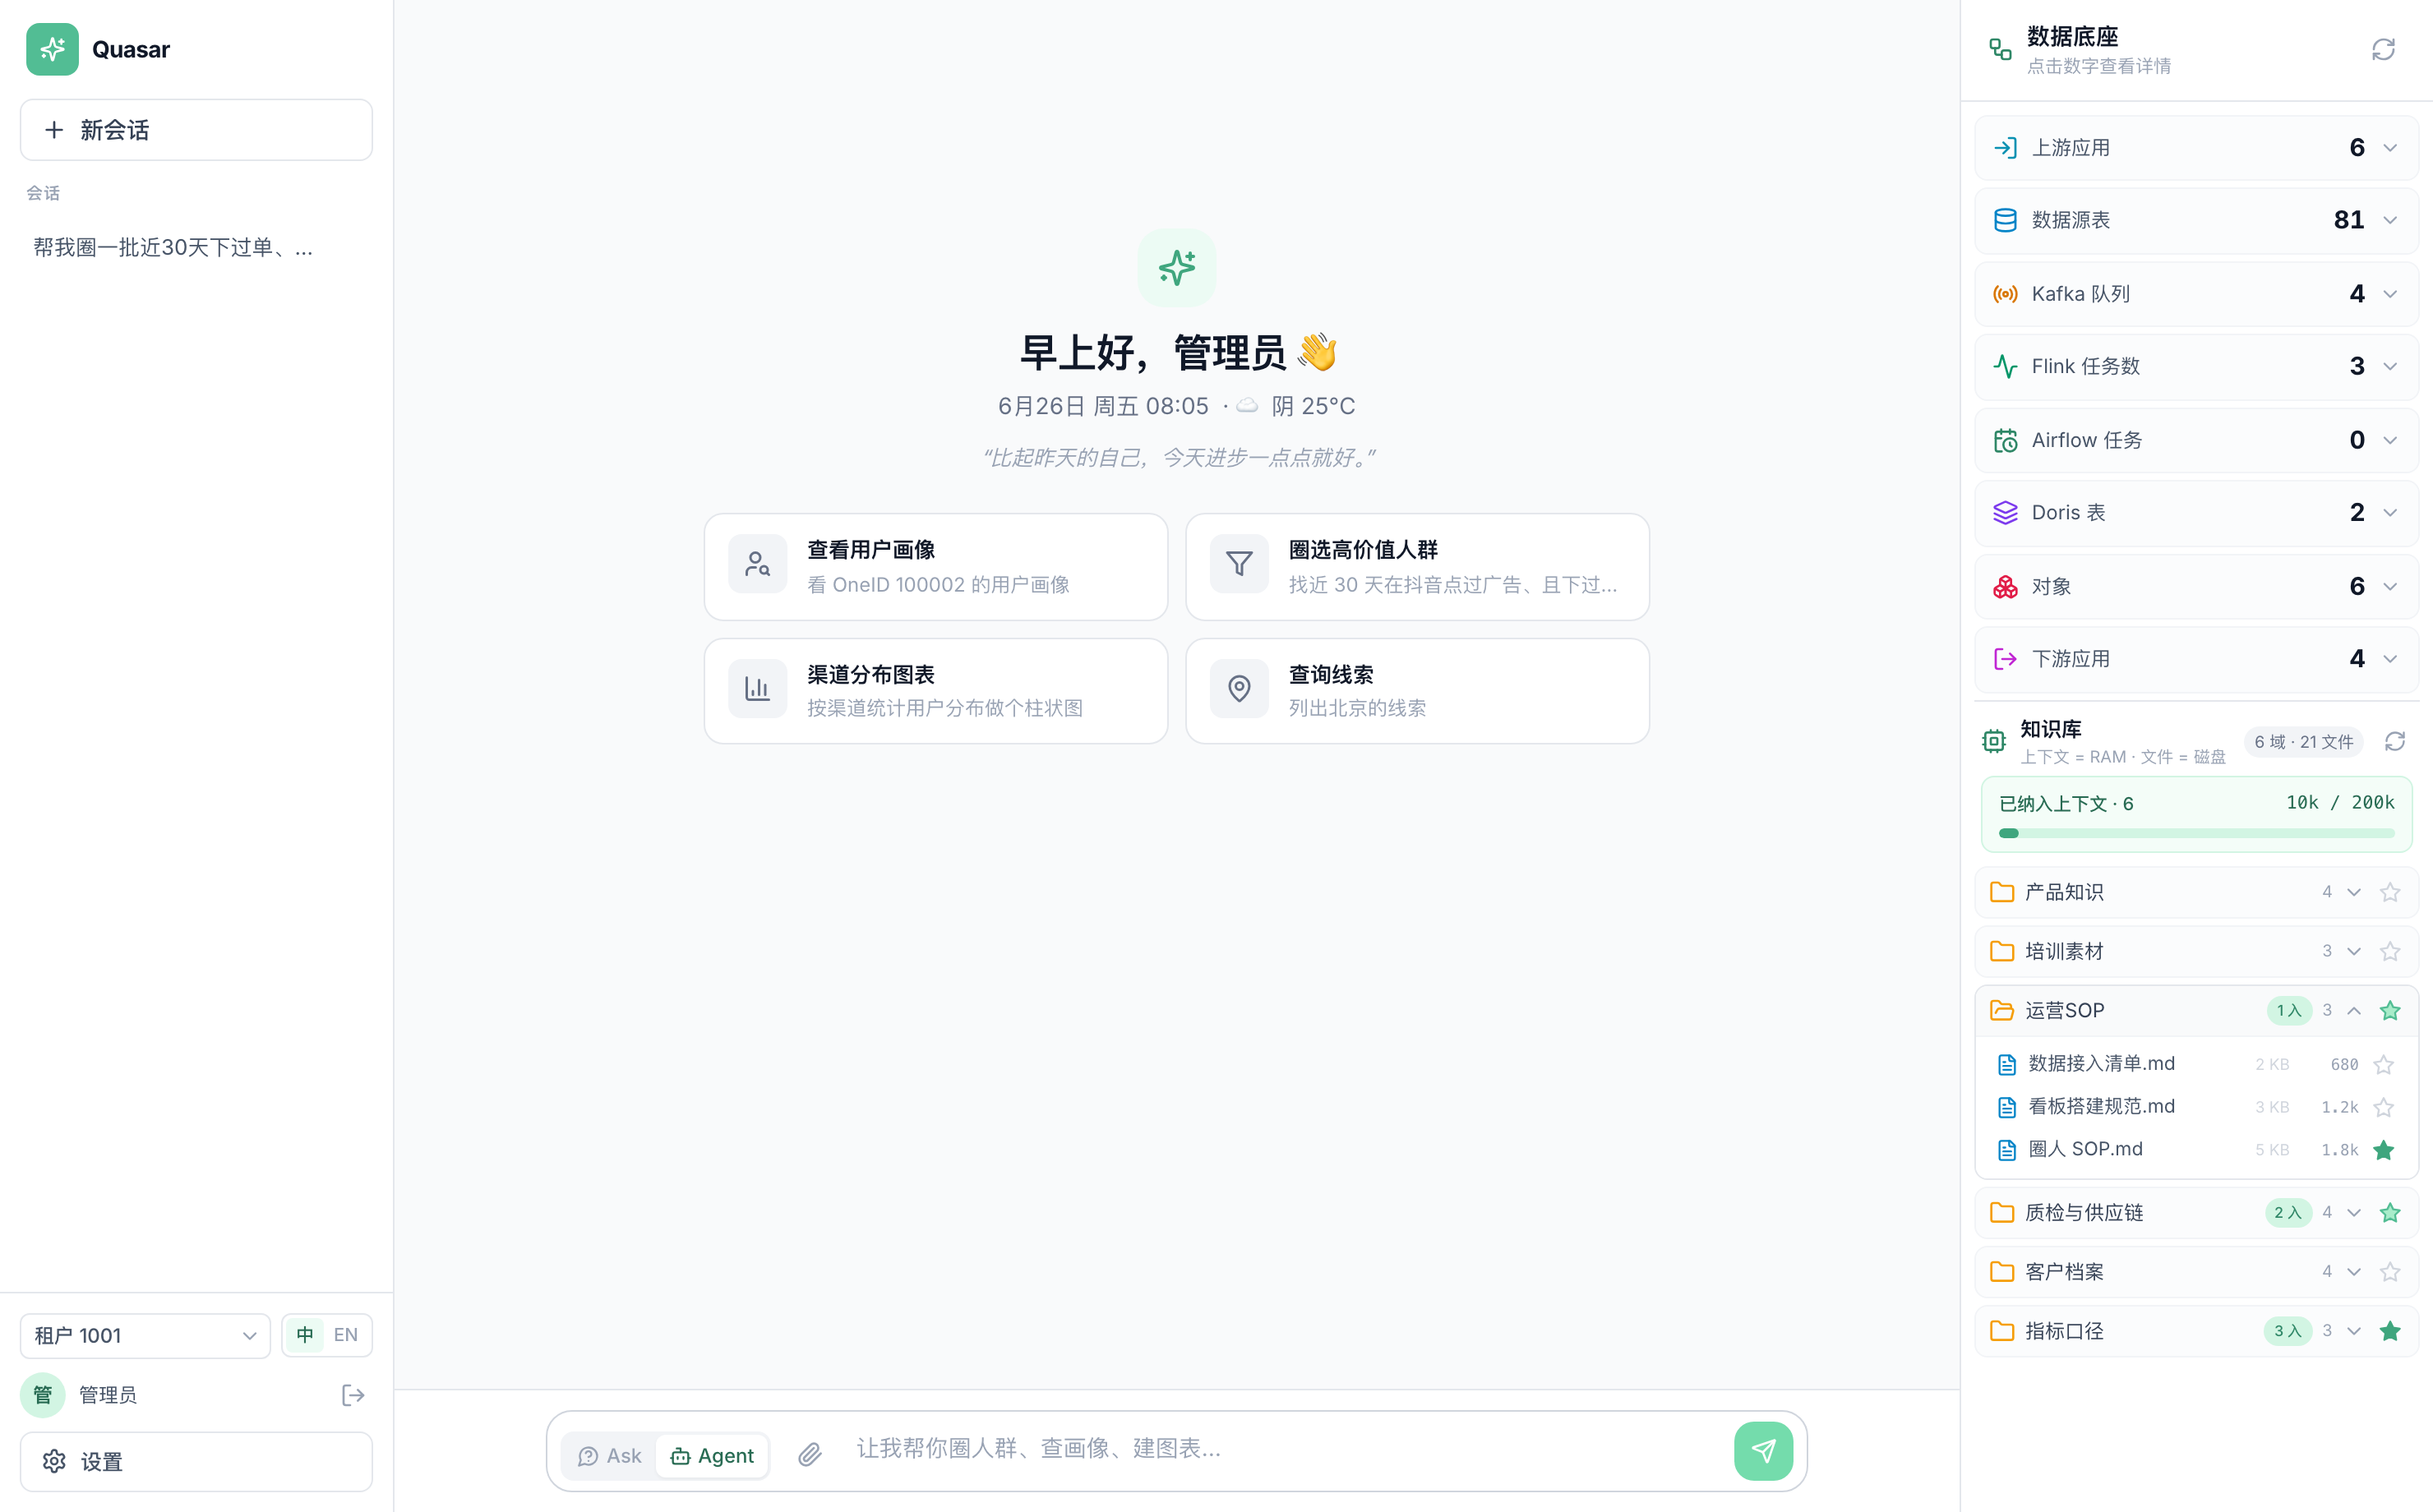
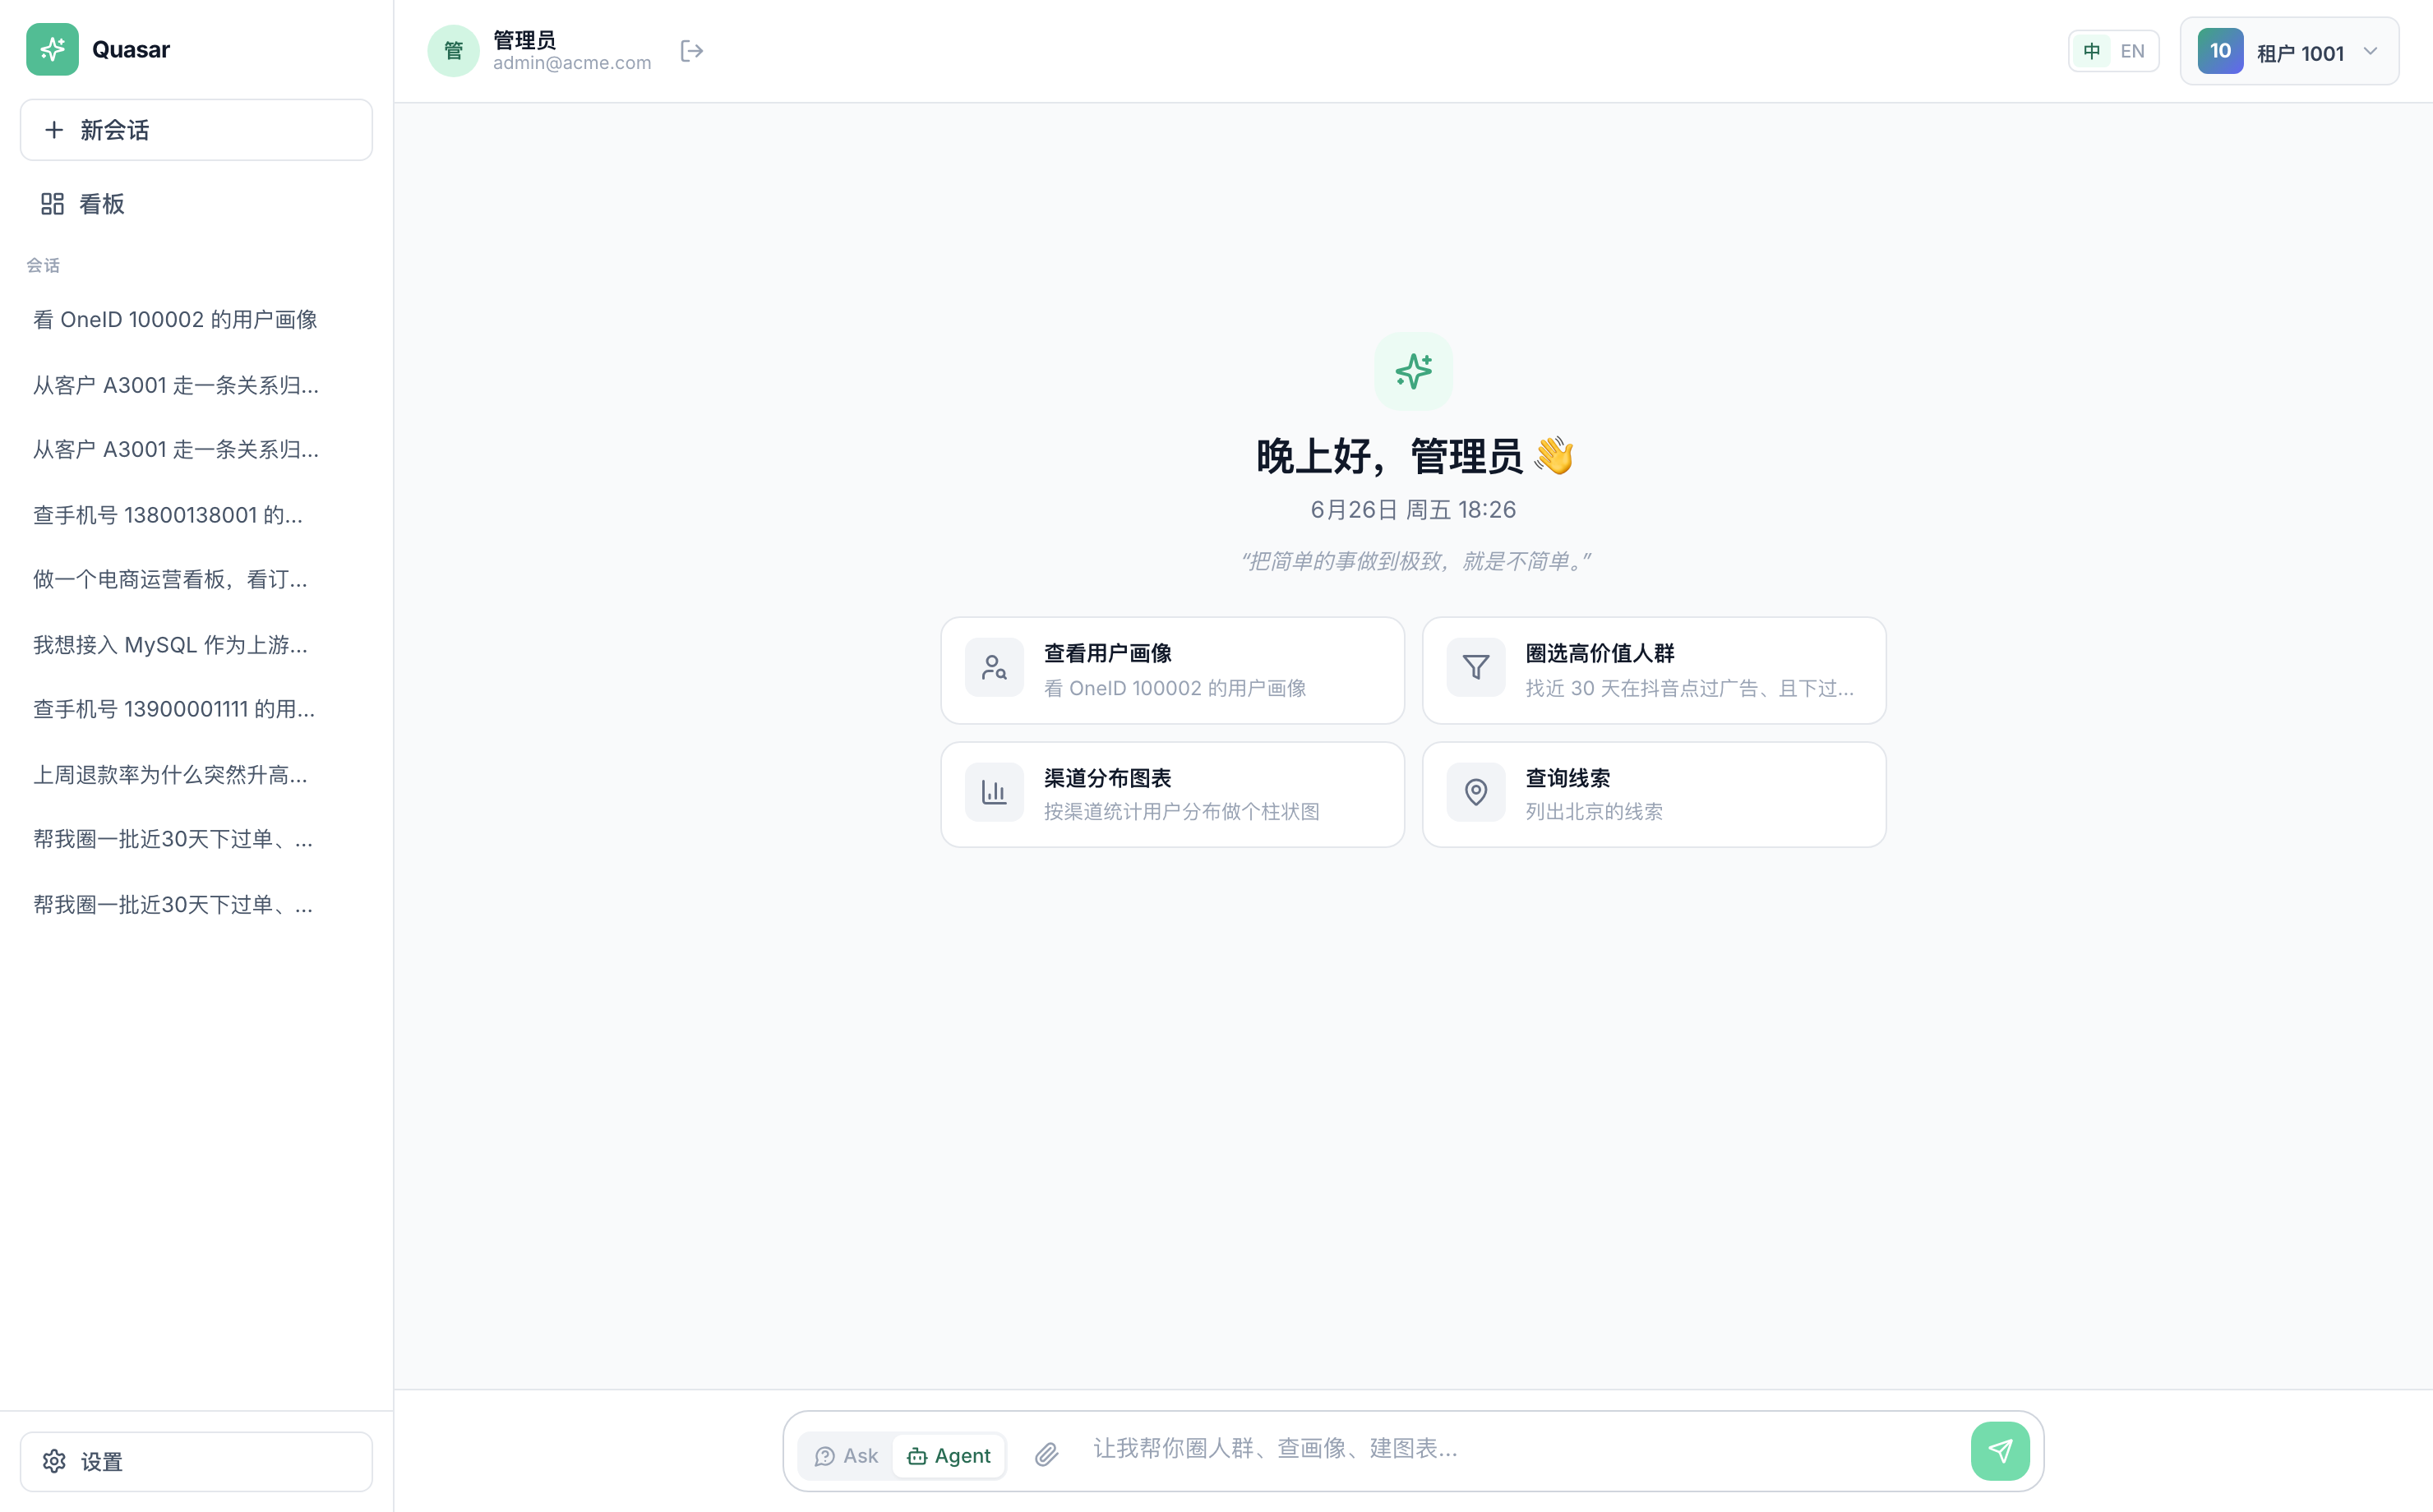
docs(site): 更新新版布局截图（TailAdmin 顶栏 + 设置数据架构分层）
- 02-console 换为新布局；overview/architecture 嵌入 settings-arch（数据源/应用/实时链路/队列/任务/知识库）
- 替换过时的右栏数据底座图

diff --git a/docs/site/overview.html b/docs/site/overview.html
@@ -60,7 +60,7 @@
         <div class="card"><h5><span class="ico">⚡</span>快捷入口</h5><p>创建受众 / 接入数据源，一键直达高频操作。</p></div>
       </div>
       <figure class="fig"><img src="assets/shots/02-console.png" alt="总览看板 · 控制台主界面" loading="lazy"><figcaption>控制台主界面：欢迎语 + 快捷卡 + 右侧数据底座 / 知识库</figcaption></figure>
-      <figure class="fig"><img src="assets/shots/03-data-foundation.png" alt="数据底座概览" loading="lazy"><figcaption>右侧「数据底座」：上游应用 / 数据源表 / Kafka / Flink / Airflow / Doris / 对象 / 下游应用，点数字下钻</figcaption></figure>
+      <figure class="fig"><img src="assets/shots/settings-arch.png" alt="设置 · 数据架构分层" loading="lazy"><figcaption>「设置」里按数据架构分层：数据源(数据库) · 应用(上下游) · 实时链路(Flink) · 队列(Kafka) · 任务(Airflow) · 知识库</figcaption></figure>
       <p>路由：<code>/</code></p>
     </section>
 

diff --git a/docs/site/architecture.html b/docs/site/architecture.html
@@ -97,6 +97,7 @@
         <tr><td>Airflow</td><td><code>8088</code></td><td>「可视化编排」真实调度后端（admin/admin），经 REST API 触发 DAG</td></tr>
         <tr><td>智能助手 assistant</td><td><code>8004</code></td><td>多智能体：路由 → 数据查询/分析/任务/通用</td></tr>
       </table>
+      <figure class="fig"><img src="assets/shots/settings-arch.png" alt="控制台 · 数据架构分层" loading="lazy"><figcaption>控制台「设置」按数据链路分层呈现：数据源(业务库/数仓) · 应用(上下游) · 实时链路(Flink) · 队列(Kafka) · 任务(Airflow) · 知识库</figcaption></figure>
       <div class="callout"><b>标注约定</b> · <span class="b real">真实</span> = 走 SQL Engine → MySQL 的实时查询，操作即落库；<span class="b mock">Mock</span> = 纯前端演示数据（页面右上有「Mock 数据」角标），后端尚未接入（路线图）。</div>
     </section>
 